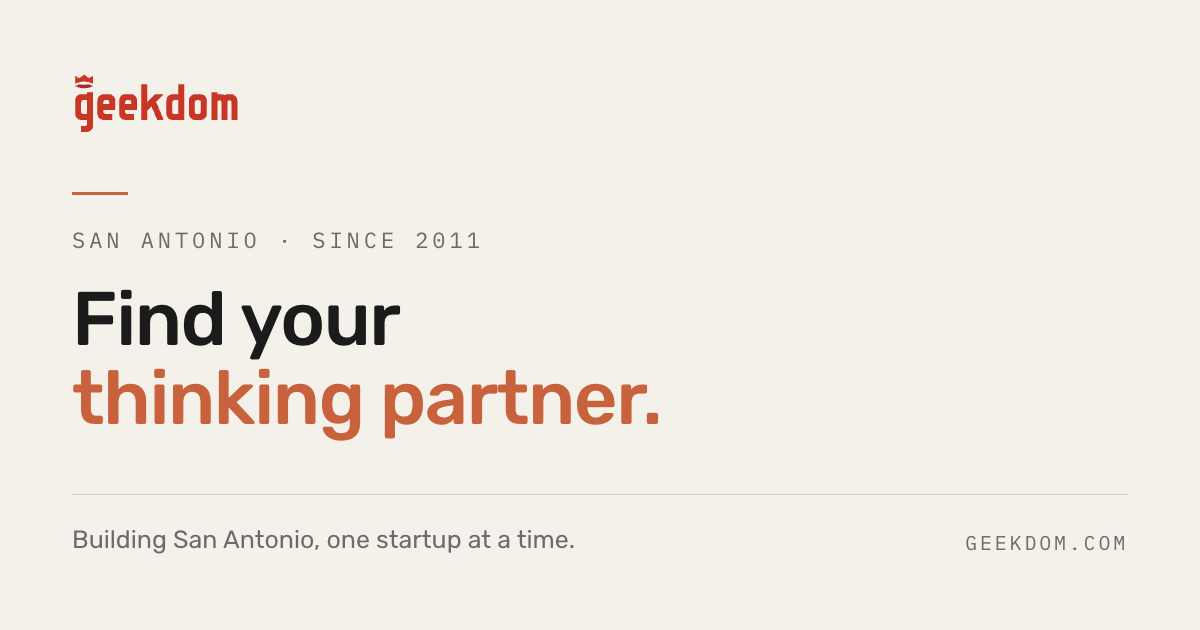
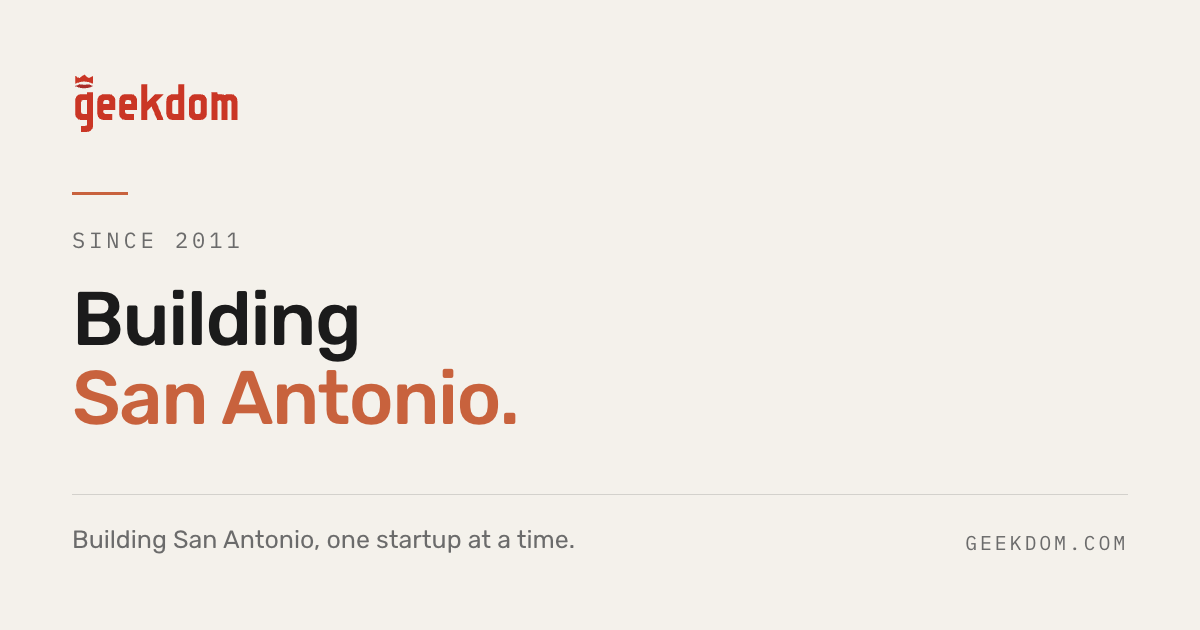
"Building San Antonio" in the title, and /apply opens Geekdom's Typeform
Title
- The homepage and default title read "Geekdom — Building San Antonio"
  (Geekdom's ask, in place of "Find your thinking partner."), from one
  TITLE_LINE constant that the homepage share card also splits — "Building /
  San Antonio." under a "Since 2011" eyebrow — so the two can't drift.

/apply
- The page keeps its source-copy header and shows one Geekdom Red "Start
  application" button that opens Geekdom's Typeform (form xzboPb6K, resolved
  from the live embed they sent) in a centered 880x680 window — edge to edge
  on phones. Closing returns to /apply; submitting lands on /apply/thanks.
- A real link to the form underneath, data-tf-popup + tf.load() from
  <Script onReady> so client-side navigation works, overlay corners squared.
- The custom ApplyForm stays in the repo, unrendered; it fed the admin
  review -> acceptance -> Stripe pipeline, which /apply no longer drives.

Changed region(s): [[0.0617, 0.4524, 0.555, 0.6937], [0.2467, 0.3619, 0.4008, 0.3921], [0.0617, 0.3619, 0.2158, 0.3921]]

diff --git a/components/forms/typeform-popup-button.tsx b/components/forms/typeform-popup-button.tsx
@@ -1,0 +1,97 @@
+"use client";
+
+import { useEffect, useRef } from "react";
+import Script from "next/script";
+import { useRouter } from "next/navigation";
+import { buttonClass } from "@/components/ui/button";
+
+declare global {
+  interface Window {
+    /** Typeform's embed library. `load()` wires up any `data-tf-*` element not yet set up. */
+    tf?: { load: () => void; reload: () => void };
+    geekdomApplySubmitted?: () => void;
+    geekdomApplyClosed?: () => void;
+  }
+}
+
+/**
+ * "Start application" — OUR button, in the site's design, that opens Geekdom's
+ * Typeform as a full-screen popup over the page.
+ *
+ * WHY A POPUP, NOT THE INLINE EMBED. The inline frame put Typeform's own
+ * styling — near-white ground, Inter, a rounded button, a second "Apply to
+ * Geekdom" heading — in the middle of a Bone page. Now /apply stays on-brand
+ * until the visitor commits, and the form gets the whole screen when they do.
+ *
+ * HOW IT'S WIRED, all verified against Typeform's embed.js:
+ *
+ *   · A REAL LINK UNDERNEATH. `href` is the form itself, so before the script
+ *     loads — or if it's blocked — the button still works; it just leaves the
+ *     site. Once the script is ready, the click opens the popup and
+ *     `preventDefault` stops the navigation.
+ *   · `data-tf-popup` + `tf.load()`, not `tf.createPopup()`. The declarative
+ *     path runs Typeform's initializer, which is what loads popup.css; the
+ *     programmatic call builds the overlay without guaranteeing its styles.
+ *     `onReady` re-runs `load()` on every mount, so client-side navigation to
+ *     /apply works (a plain <script> scans the page once).
+ *   · CALLBACKS BY GLOBAL NAME. Typeform resolves `data-tf-on-submit="name"`
+ *     to `window[name]`. On submit we note it; Typeform shows its ending
+ *     screen and auto-closes; on close, a submitted visitor goes to
+ *     /apply/thanks. Closing WITHOUT submitting just returns them to /apply.
+ *   · SIZE IS SET IN globals.css, not here: a centered 880x680 window (smaller
+ *     on a short screen) on desktop, edge to edge on a phone. Full screen
+ *     was tried and felt like leaving the site.
+ */
+export function TypeformPopupButton({
+  formId,
+  label = "Start application",
+}: {
+  formId: string;
+  label?: string;
+}) {
+  const router = useRouter();
+  const submitted = useRef(false);
+  const ready = useRef(false);
+
+  useEffect(() => {
+    window.geekdomApplySubmitted = () => {
+      submitted.current = true;
+    };
+    window.geekdomApplyClosed = () => {
+      if (submitted.current) router.push("/apply/thanks");
+    };
+    return () => {
+      delete window.geekdomApplySubmitted;
+      delete window.geekdomApplyClosed;
+    };
+  }, [router]);
+
+  return (
+    <>
+      <a
+        href={`https://form.typeform.com/to/${formId}`}
+        data-tf-popup={formId}
+        data-tf-auto-close="2500"
+        data-tf-on-submit="geekdomApplySubmitted"
+        data-tf-on-close="geekdomApplyClosed"
+        onClick={(e) => {
+          // Typeform's own listener opens the popup; this only stops the
+          // fallback link from also navigating away once that listener exists.
+          if (ready.current) e.preventDefault();
+        }}
+        className={buttonClass("primary", "lg")}
+      >
+        {label}
+      </a>
+      <Script
+        id="typeform-embed"
+        src="https://embed.typeform.com/next/embed.js"
+        strategy="afterInteractive"
+        onReady={() => {
+          window.tf?.load();
+          ready.current = true;
+        }}
+      />
+    </>
+  );
+}

diff --git a/lib/og.ts b/lib/og.ts
@@ -2,7 +2,7 @@ import {
   FOUNDED_YEAR,
   LOCATION,
   POSITIONING,
-  PROMISE,
+  TITLE_LINE,
   SITE_NAME,
 } from "@/lib/site";
 
@@ -39,13 +39,13 @@ export interface OgCard {
 }
 
 /*
-  "Find your thinking partner." -> ["Find your", "thinking partner."]
-  Two words, then the rest. Both halves land under the 21-character ceiling.
+  The homepage card's two lines are the page title's line, split: "Building /
+  San Antonio." The card and the <title> show together in every unfurl and
+  search result, so they must say the same thing — both read TITLE_LINE.
 */
-const PROMISE_WORDS = PROMISE.split(" ");
-const PROMISE_LINES: readonly [string, string] = [
-  PROMISE_WORDS.slice(0, 2).join(" "),
-  PROMISE_WORDS.slice(2).join(" "),
+const TITLE_LINES: readonly [string, string] = [
+  TITLE_LINE.split(" ")[0],
+  `${TITLE_LINE.split(" ").slice(1).join(" ")}.`,
 ];
 
 export const OG_CARDS: Record<string, OgCard> = {
@@ -55,28 +55,17 @@ export const OG_CARDS: Record<string, OgCard> = {
     an invoice link into a chat still unfurls something.
   */
   home: {
-    eyebrow: `${LOCATION.city} · Since 2011`,
+    // Not "San Antonio · Since 2011" — the headline already says San Antonio.
+    eyebrow: `Since ${FOUNDED_YEAR}`,
     /*
       THE CARD AND THE <title> HAVE TO AGREE, because a search result and a
-      Slack unfurl show them together.
-
-      This card read "Make people your unfair advantage." — HOOK, which was
-      the h1 for the life of the old site and is now the line that CLOSES the
-      homepage. The rebuild moved it there deliberately: as an opening claim it
-      competed with the positioning line. The card kept making the demoted
-      argument, directly above a title making the other one.
-
-      POSITIONING is the h1 and would be the obvious fix, but it is 52
-      characters against the ~21-per-line limit above and there is no honest
-      two-line break in it. PROMISE is what the title already uses, it splits
-      cleanly, and it is the forward-facing claim.
-
-      SPLIT FROM THE CONSTANT rather than retyped, so a reworded PROMISE cannot
-      leave the old words sitting on the card.
+      Slack unfurl show them together. Both read TITLE_LINE — "Building San
+      Antonio", Geekdom's replacement for "Find your thinking partner." —
+      so rewording it moves the title and the card together.
     */
-    lines: PROMISE_LINES,
+    lines: TITLE_LINES,
     out: "app/opengraph-image.png",
-    alt: `Geekdom — ${PROMISE} ${POSITIONING}`,
+    alt: `Geekdom — ${TITLE_LINE}. ${POSITIONING}`,
   },
 
   /*

diff --git a/lib/site.ts b/lib/site.ts
@@ -164,11 +164,19 @@ export const CLUB = {
 export const HOOK = "Make people your unfair advantage.";
 
 /**
+ * THE TITLE LINE — "Geekdom — Building San Antonio" in a browser tab, a search
+ * result and the homepage's share card. Geekdom asked for it in place of
+ * "Find your thinking partner." ("Geekdom - building San Antonio. Or
+ * something like that."). It is the head of `TAGLINE`, "Building San Antonio,
+ * one startup at a time.", so the title and the tagline say one thing.
+ */
+export const TITLE_LINE = "Building San Antonio";
+
+/**
  * The promise — what you actually do about the hook.
  *
- * Carries the page <title> and search snippets rather than the hero, because
- * it's the plainer, more searchable of the two. HOOK is for the eye, PROMISE is
- * for the query.
+ * It carried the page <title> until Geekdom asked for "Building San Antonio"
+ * there instead (see TITLE_LINE); it no longer reaches any title or card.
  */
 export const PROMISE = "Find your thinking partner.";
 
@@ -1338,6 +1346,17 @@ export const LEGAL: NavLink[] = [
 ];
 
 /** Public calendar the events page links out to when Luma isn't configured. */
+/**
+ * Geekdom's application form on Typeform (`Source Copy v1`: "Embed Typeform
+ * that feeds into current Airtable").
+ *
+ * THIS IS THE FORM ID, not the ID Geekdom sent. Their snippet was a "live
+ * embed" (`data-tf-live="01M3AFG25RTFW121XX356HREK9"`), which resolves to this
+ * form at load — read from the live embed's iframe URL
+ * (form.typeform.com/to/xzboPb6K). The popup needs the form ID itself.
+ */
+export const TYPEFORM_FORM_ID = "xzboPb6K";
+
 export const LUMA_CALENDAR_URL = envOr(
   process.env.NEXT_PUBLIC_LUMA_CALENDAR_URL,
   "https://luma.com/geekdom",

diff --git a/app/globals.css b/app/globals.css
@@ -405,6 +405,33 @@ p {
   into a clean instant swap instead of a flicker.
 */
 /*
+  THE TYPEFORM POPUP (/apply's "Start application"). Typeform draws its
+  overlay frame with rounded corners; this is our page, and Geekdom's rule is
+  "No rounded corners… 90 degrees." Everything INSIDE the frame is styled in
+  Geekdom's Typeform account. `!important` because Typeform's popup.css loads
+  after ours.
+*/
+.tf-v1-popup .tf-v1-iframe-wrapper,
+.tf-v1-popup iframe {
+  border-radius: 0 !important;
+}
+
+/*
+  A WINDOW, NOT A TAKEOVER, on anything bigger than a phone. Near-full-screen
+  (Typeform's size 100) felt like leaving the site on a MacBook Air and was a
+  vast white field on a large monitor. Capped at 880x680 — the form's natural
+  reading size — and shrunk to keep a 40px margin on a short or narrow window.
+  Below 481px Typeform's own popup.css makes it edge to edge, which is right
+  on a phone, so this stops there.
+*/
+@media (min-width: 481px) {
+  .tf-v1-popup .tf-v1-iframe-wrapper {
+    width: min(880px, calc(100vw - 80px)) !important;
+    height: min(680px, calc(100svh - 80px)) !important;
+  }
+}
+
+/*
   THE SOFT SCROLL-IN. An element rises 24px and fades in as it enters the
   viewport, driven by its own scroll position rather than a timer — so it
   moves exactly as fast as the reader scrolls and never replays.

diff --git a/app/(site)/apply/page.tsx b/app/(site)/apply/page.tsx
@@ -6,7 +6,8 @@ import {
   Section,
 } from "@/components/site/section";
 import { cn } from "@/lib/utils";
-import { ApplyForm } from "@/components/forms/apply-form";
+import { TypeformPopupButton } from "@/components/forms/typeform-popup-button";
+import { TYPEFORM_FORM_ID } from "@/lib/site";
 import { Editorial } from "@/components/site/editorial";
 
 export const metadata: Metadata = pageMetadata({
@@ -50,13 +51,13 @@ export default function ApplyPage() {
       </header>
 
       {/*
-        Narrower than the prose measure on /faq and the letter. Those are read
-        left to right at 672px; a column of inputs is scanned down its left
-        edge, and a wide field is a long way to travel back for the next one.
+        GEEKDOM'S TYPEFORM, as `Source Copy v1` specified — opened as a
+        full-screen popup from our own button rather than embedded inline, so
+        the page stays in the brand until the visitor starts. See
+        TypeformPopupButton. The custom <ApplyForm /> is still in the repo,
+        unrendered — see the /apply notes in AGENTS.md before deleting it.
       */}
-      <div className="max-w-xl">
-        <ApplyForm />
-      </div>
+      <TypeformPopupButton formId={TYPEFORM_FORM_ID} />
     </Section>
   );
 }

diff --git a/app/layout.tsx b/app/layout.tsx
@@ -1,6 +1,6 @@
 import type { Metadata } from "next";
 import { Rubik, IBM_Plex_Mono } from "next/font/google";
-import { SITE_URL, SITE_NAME, PROMISE } from "@/lib/site";
+import { SITE_URL, SITE_NAME, TITLE_LINE } from "@/lib/site";
 import { IS_PREVIEW } from "@/lib/preview";
 import { PreviewBadge } from "@/components/site/preview-badge";
 import { SiteJsonLd } from "@/components/site/structured-data";
@@ -89,7 +89,7 @@ const plexMono = IBM_Plex_Mono({
 export const metadata: Metadata = {
   metadataBase: new URL(SITE_URL),
   title: {
-    default: `${SITE_NAME} — ${PROMISE}`,
+    default: `${SITE_NAME} — ${TITLE_LINE}`,
     template: `%s · ${SITE_NAME}`,
   },
   description: SITE_DESCRIPTION,

diff --git a/lib/seo.ts b/lib/seo.ts
@@ -87,7 +87,7 @@ export function pageMetadata({
     in a feed, next to a stranger's photo.
 
     The homepage's own title already opens with the name, so both would run it
-    twice: "Geekdom — Find your thinking partner. · Geekdom". Marking it
+    twice: "Geekdom — Building San Antonio · Geekdom". Marking it
     absolute opts out of the template, and the share title skips the suffix for
     the same reason.
   */

diff --git a/app/(site)/page.tsx b/app/(site)/page.tsx
@@ -27,7 +27,7 @@ import {
   LOCATION,
   POSITIONING,
   POSITIONING_ACCENT,
-  PROMISE,
+  TITLE_LINE,
   SITE_NAME,
   STUDIO,
   TAGLINE_LINE,
@@ -36,7 +36,7 @@ import {
 } from "@/lib/site";
 
 export const metadata: Metadata = pageMetadata({
-  title: `${SITE_NAME} — ${PROMISE}`,
+  title: `${SITE_NAME} — ${TITLE_LINE}`,
   path: "",
   description: SITE_DESCRIPTION,
 });

diff --git a/AGENTS.md b/AGENTS.md
@@ -248,13 +248,34 @@ same page runs as "15 years of Geekdom".
   Geekdom.", the Fraunces line "Membership is by application. We respond
   within two weeks.", and one paragraph ("about ten minutes"). No price and no
   explanation of why there's an application — Geekdom asked for neither.
-- **The form is custom, and the doc asks for Typeform + Airtable.** It stays
-  custom pending Geekdom's call, because it feeds the whole membership
-  pipeline: admin review → acceptance email → Stripe checkout → the webhook
-  that creates the member. A Typeform embed sits outside all of that.
-- **`formerMember` ("I was a Geekdom coworking member.") is load-bearing** —
-  it reaches the admin detail view, the CSV export and the team email. Don't
-  drop the checkbox without replacing that signal.
+- **The form is Geekdom's Typeform, opened as a popup from our own button**
+  ([typeform-popup-button.tsx](components/forms/typeform-popup-button.tsx),
+  `TYPEFORM_FORM_ID` in [lib/site.ts](lib/site.ts)). /apply shows only the
+  source-copy header and a Geekdom Red "Start application"; the Typeform
+  opens in a centered 880x680 window (edge to edge on phones) when clicked —
+  near-full-screen was tried and read as leaving the site. An inline embed was tried first and
+  put Typeform's own styling in the middle of a Bone page. Load-bearing:
+  - It is a real `<a href>` to the form, so it works before (or without) the
+    script; once Typeform is ready the click opens the popup instead.
+  - `data-tf-popup` + `tf.load()` from `<Script onReady>` — the declarative
+    path loads popup.css, and `onReady` re-runs on client-side navigation.
+  - Callbacks are global names (`geekdomApplySubmitted` / `...Closed`);
+    submit + close sends the visitor to /apply/thanks.
+  - `TYPEFORM_FORM_ID` is the FORM id (`xzboPb6K`), read from the live
+    embed Geekdom sent (`01M3AFG25RTFW121XX356HREK9`), which resolves to it.
+  - The overlay's corners are squared in globals.css. Everything inside the
+    frame (colors, Inter, copy, its rounded button) is Geekdom's Typeform.
+- **The custom `<ApplyForm />` is unrendered, not deleted.** It fed the whole
+  membership pipeline — `/api/apply` → the admin review queue → acceptance
+  email → Stripe checkout → the webhook that creates the member. Typeform
+  submissions go to Typeform/Airtable instead, so none of that runs from
+  /apply now. Reconnecting it (a Typeform webhook into `/api/apply`, or the
+  admin creating applications) is the integration step, deferred with the
+  others until the design is agreed.
+- **`formerMember` ("I was a Geekdom coworking member.") was load-bearing** in
+  the custom form — it reaches the admin detail view, the CSV export and the
+  team email. If Typeform is ever wired into the pipeline, map an equivalent
+  question onto it.
 
 ## Share cards and metadata
 
